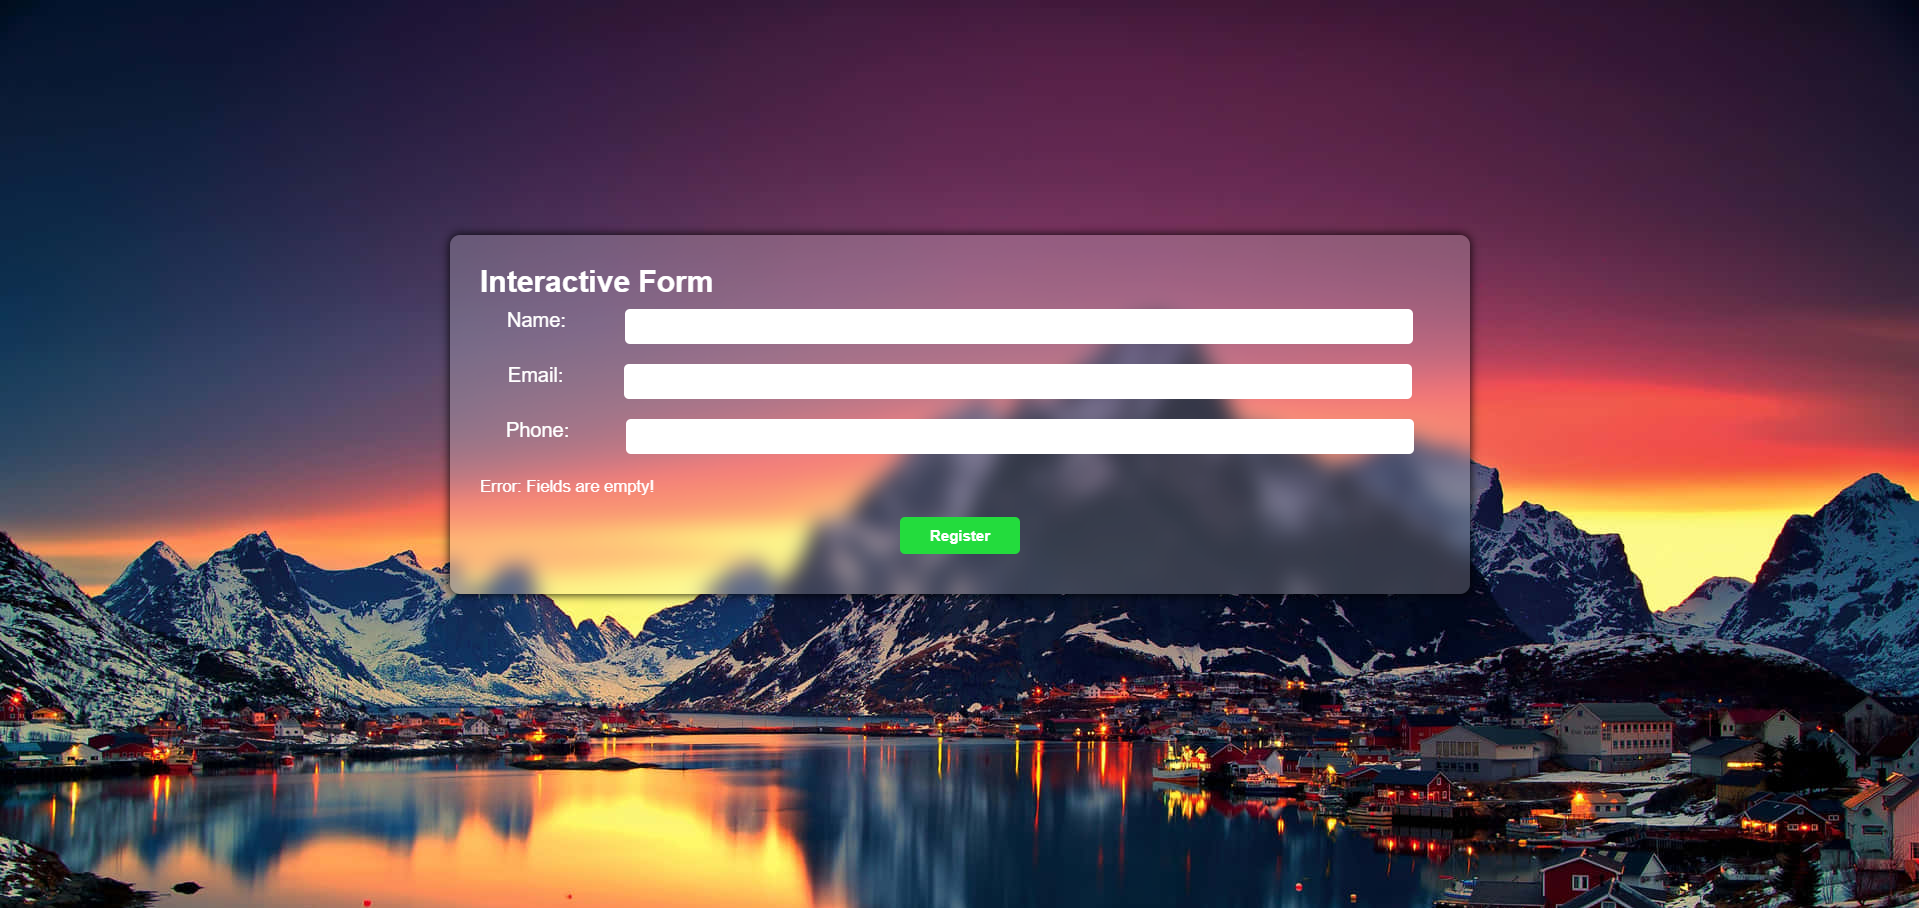
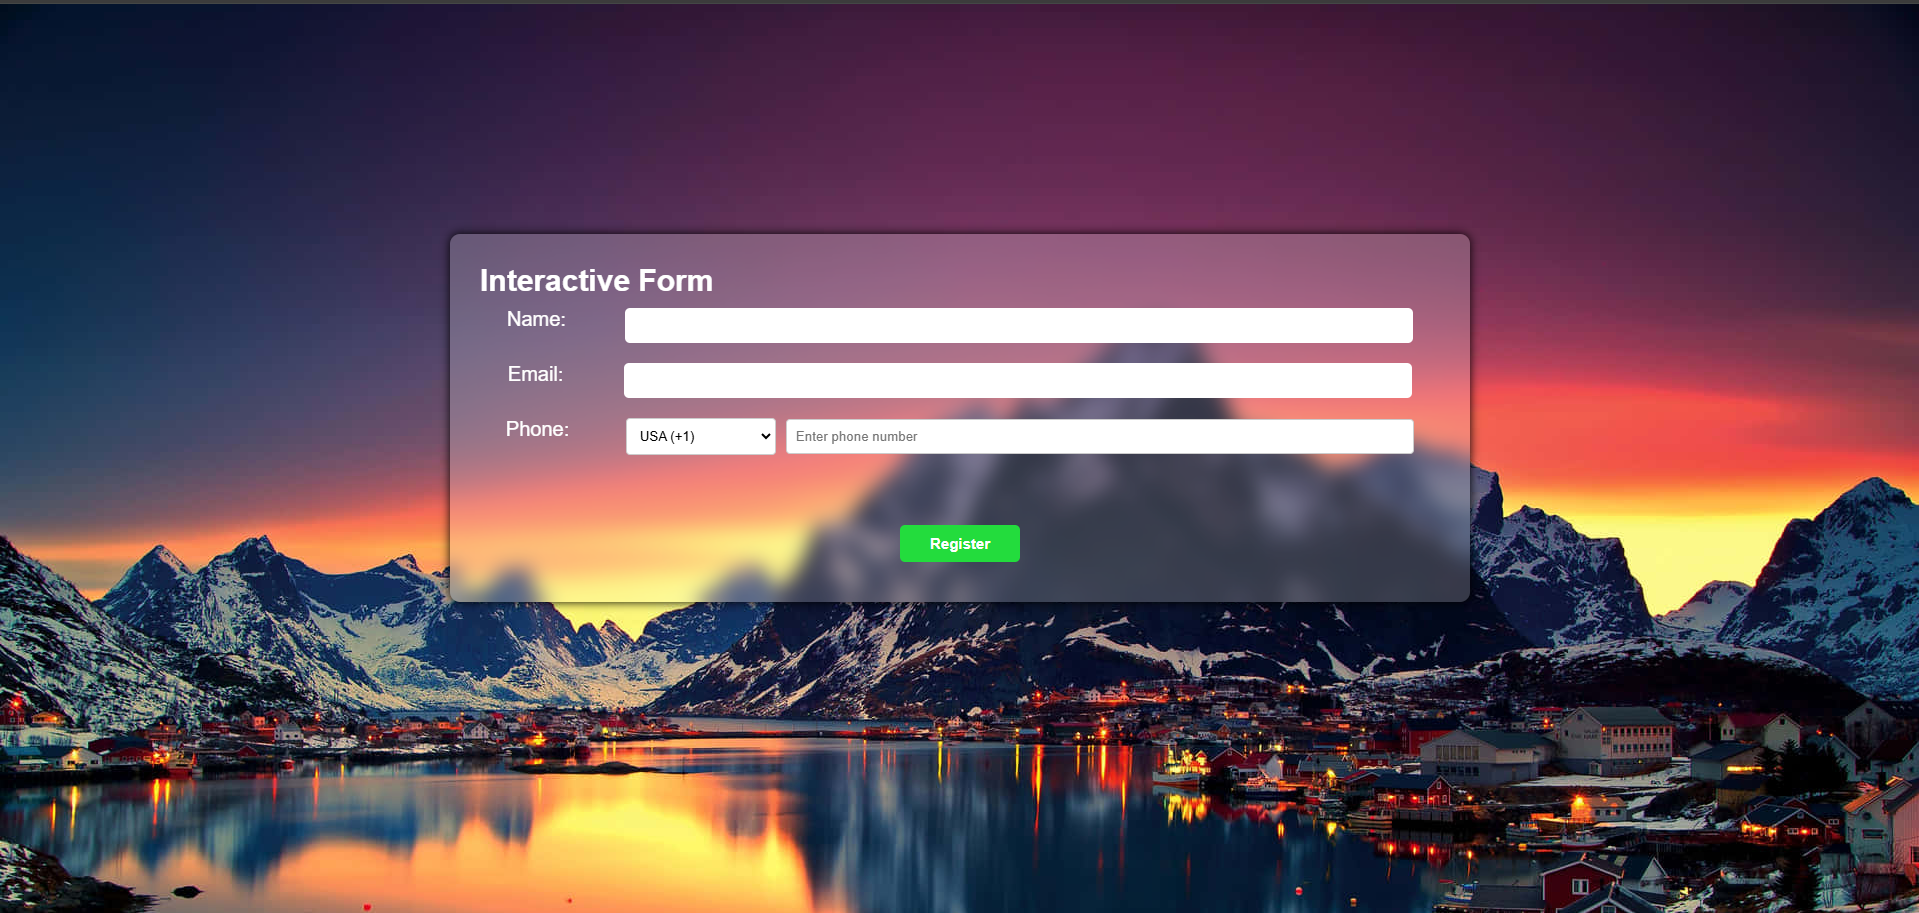
practice 4 - correction

diff --git a/desarrollo_web/Parcial_1/Prac4/scripts.js b/desarrollo_web/Parcial_1/Prac4/scripts.js
@@ -4,34 +4,67 @@ const formPhone = document.getElementById('phone');
 const formErrorValid = document.getElementById('error-valid');
 const formBtn = document.getElementById('btn');
 
-function validation(txt, email, phone){
-    let isValid = true;
-
-    if(txt === "" || email === "" || phone === ""){
-        isValid = false;
-        formErrorValid.textContent = "Error: Fields are empty!";
-    }
-    else{
-        formErrorValid.textContent = "";
-    }
-    return isValid;
+function PhoneValid(phone) {
+    const phoneRegex = /^(\+?\d{1,3}[-.\s]?)?(\(?\d{3}\)?[-.\s]?)?\d{3}[-.\s]?\d{4}$/;
+    return phoneRegex.test(phone) && phone.length <= 15;
 }
 
-function register(){
+function EmailValid(email) {
+    const emailRegex = /^[^\s@]+@[^\s@]+\.[^\s@]+$/;
+    return emailRegex.test(email);
+}
+
+function TextValid(text) {
+    return text.trim() !== "";
+}
+
+function validation(txt, email, phone) {
+    formErrorValid.textContent = ""; 
+    formErrorValid.classList.remove('show', 'success', 'error');
+
+    if ((!TextValid(txt) && !EmailValid(email) && !PhoneValid(phone) || !TextValid(txt) && !EmailValid(email) || !TextValid(txt) && !PhoneValid(phone) || !EmailValid(email) && !PhoneValid(phone))) {
+        formErrorValid.textContent = "Error: All fields are required!";
+        formErrorValid.classList.add('show', 'error');
+        return false;
+    }
+
+    if (!TextValid(txt)) {
+        formErrorValid.textContent = "Error: Text is empty!";
+        formErrorValid.classList.add('show', 'error');
+        return false;
+    }
+
+    if (!EmailValid(email)) {
+        formErrorValid.textContent = "Error: Email is invalid!";
+        formErrorValid.classList.add('show', 'error');
+        return false;
+    }
+
+    if (!PhoneValid(phone)) {
+        formErrorValid.textContent = "Error: Phone is invalid!";
+        formErrorValid.classList.add('show', 'error');
+        return false;
+    }
+
+    return true;
+}
+
+function register() {
     let txtText = formTxt.value;
     let emailText = formEmail.value;
     let phoneText = formPhone.value;
 
-    if(validation(txtText, emailText, phoneText)){
+    if (validation(txtText, emailText, phoneText)) {
         let li = document.createElement("li");
         li.className = "list-item";
         li.innerHTML = `
-        <span class="text-item">${txtText}</span>
-        <span class="text-item">${emailText}</span>
-        <span class="text-item">${phoneText}</span>
+            <span class="text-item">${txtText}</span>
+            <span class="text-item">${emailText}</span>
+            <span class="text-item">${phoneText}</span>
         `;
         formErrorValid.appendChild(li);
         formErrorValid.textContent = "Success: Registration completed!";
+        formErrorValid.classList.add('show', 'success');
     }
 }
 

diff --git a/desarrollo_web/Parcial_1/Prac4/index.html b/desarrollo_web/Parcial_1/Prac4/index.html
@@ -24,10 +24,22 @@
                 
                 <div class="form-item">
                     <label>Phone:</label>
-                    <input type="phone" id="phone">
+                    <div class="phone-input">
+                        <select id="country-code">
+                            <option value="+1">USA (+1)</option>
+                            <option value="+52">Mexico (+52)</option>
+                            <option value="+44">UK (+44)</option>
+                            <option value="+91">India (+91)</option>
+                            <option value="+86">China (+86)</option>
+                            <option value="+81">Japan (+81)</option>
+                            <option value="+33">France (+33)</option>
+                            <option value="+49">Germany (+49)</option>
+                        </select>
+                        <input type="text" id="phone" placeholder="Enter phone number">
+                    </div>
                 </div>
 
-                <div>
+                <div class="form-item">
                     <small class="errorvalid" id="error-valid"></small>
                 </div>
             </form>

diff --git a/desarrollo_web/Parcial_1/Prac4/styles/MyStyles.css b/desarrollo_web/Parcial_1/Prac4/styles/MyStyles.css
@@ -82,3 +82,54 @@ body{
     cursor: pointer;
     font-size: 15px;
 }
+
+.phone-input {
+    display: flex;
+    flex-direction: row;
+    gap: 10px;
+    align-items: center;
+    justify-content: space-around;
+    width: 82.1%;
+}
+
+/*? Error/Success Message */
+#error-valid {
+    display: inline-block;
+    opacity: 0;
+    visibility: hidden;
+    transition: opacity 0.3s ease, visibility 0.3s ease, background-color 0.3s ease;
+    padding: 10px;
+    border-radius: 5px;
+    margin-top: 10px;
+    width: 100%;
+    text-align: center;
+    font-weight: bold;
+}
+
+#error-valid.show {
+    opacity: 1;
+    visibility: visible;
+}
+
+#error-valid.success {
+    background-color: #23DC3D;
+}
+
+#error-valid.error {
+    background-color: #FF3333; 
+}
+
+#country-code {
+    width: 150px;
+    padding: 9px;
+    border: 1px solid #ccc;
+    border-radius: 4px;
+}
+
+#phone {
+    flex: 1;
+    padding: 9px;
+    border: 1px solid #ccc;
+    border-radius: 4px;
+    width: 100%;
+}

diff --git a/desarrollo_web/Parcial_1/Prac4/Readme.md b/desarrollo_web/Parcial_1/Prac4/Readme.md
@@ -22,6 +22,7 @@ It's a responsive webpage designed to collect user information through a form. T
 ## Page Screenshots
 
 ![Form](./screenshot/image.png)  
-![Form Validation](./screenshot/image2.png)  
+![Form succses](./screenshot/image2.png)  
+![Form errir](./screenshot/image3.png)  
 
 ---
